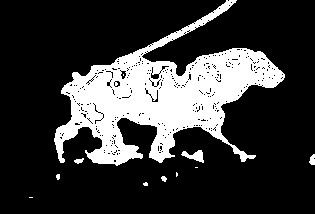
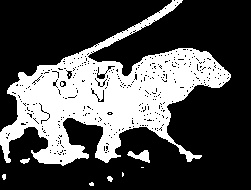
finish_blizko

diff --git a/cur.py b/cur.py
@@ -4,162 +4,165 @@ import cv2
 import argparse
 import math
 
-bins=255
-
-#fuction for binatyzation img by hist
 def range_segmentator(frame, hist):
-    temp_frame=frame.copy()
-    for i in range(hist.shape[0]):
-        for j in range(hist.shape[1]):
-            if(hist[j,i]<0):
-                temp_frame[np.where(frame == i)]=255
-                frame=temp_frame    
-    frame[np.where(frame!=255)]=0        
-    return frame           
+        temp_frame=frame.copy()
+        for i in range(hist.shape[0]):
+            for j in range(hist.shape[1]):
+                if(hist[j,i]<0):
+                    temp_frame[np.where(frame == i)]=255
+                    frame=temp_frame    
+        frame[np.where(frame!=255)]=0        
+        return frame           
 
 def segmentator_one_hist(frame,hist):
-    temp_frame=frame.copy()
-    for i in range(len(hist)):
-        if(hist[i]<0):
-            temp_frame[np.where(frame==i)]=255
-            frame=temp_frame
-    frame[np.where(frame!=255)]=0
-    return frame
+        temp_frame=frame.copy()
+        for i in range(len(hist)):
+            if(hist[i]<0):
+                temp_frame[np.where(frame==i)]=255
+                frame=temp_frame
+        frame[np.where(frame!=255)]=0
+        return frame
 
 def findDiffHist(frame,frame_ROI):
-    numPixles_frame = np.prod(frame.shape[:2])
-    numPixles_ROI = np.prod(frame_ROI.shape[:2])
-    histogramObj = cv2.calcHist([frame], [0], None, [bins], [0, 255])/numPixles_frame 
-    histogramROI = cv2.calcHist([frame_ROI], [0], None, [bins], [0, 255])/numPixles_ROI
-    one_result_hist=histogramROI-histogramObj
-    return one_result_hist
+        numPixles_frame = np.prod(frame.shape[:2])
+        numPixles_ROI = np.prod(frame_ROI.shape[:2])
+        histogramObj = cv2.calcHist([frame], [0], None, [bins], [0, 255])/numPixles_frame 
+        histogramROI = cv2.calcHist([frame_ROI], [0], None, [bins], [0, 255])/numPixles_ROI
+        one_result_hist=histogramROI-histogramObj
+        return one_result_hist
 
 def findDiff2Hist(frame,frame_ROI):
-    im_frame=cv2.Sobel(frame,-1,1,0)
-    cv2.imshow('Sobel',im_frame)
-    scar_x=cv2.Scharr(frame,-1,1,0)
-    print(scar_x.dtype)
-    scar_y=cv2.Scharr(frame,-1,0,1)
-    scar=scar_x+scar_y
-    print(np.min(scar_x))
-    print(np.max(scar_x))
-    scar_x=cv2.Scharr(frame_ROI,-1,1,0)
-    scar_y=cv2.Scharr(frame_ROI,-1,0,1)
-    scar_ROI=scar_x+scar_y
+        scar_x=cv2.Scharr(frame,-1,1,0)
+        scar_y=cv2.Scharr(frame,-1,0,1)
+        scar=scar_x+scar_y
 
-    arr_scar=scar.flatten()
-    arr_gray=gray_init.flatten()
-    arr_ROI_scar=scar_ROI.flatten()
-    arr_ROI_frame=frame_ROI.flatten()
+        scar_x=cv2.Scharr(frame_ROI,-1,1,0)
+        scar_y=cv2.Scharr(frame_ROI,-1,0,1)
+        scar_ROI=scar_x+scar_y
 
-    my_hist , x_edges, y_edges = np.histogram2d(arr_gray,arr_scar,bins=(150,150),normed=True)
-    my_ROI_hist,_,_ = np.histogram2d(arr_ROI_frame,arr_ROI_scar,bins=(150,150),normed=True)
-    resultHist=my_ROI_hist-my_hist
-    return resultHist
+        arr_scar=scar.flatten()
+        arr_gray=frame.flatten()
+        arr_ROI_scar=scar_ROI.flatten()
+        arr_ROI_frame=frame_ROI.flatten()
+
+        my_hist , x_edges, y_edges = np.histogram2d(arr_gray,arr_scar,bins=(150,150),normed=True)
+        my_ROI_hist,_,_ = np.histogram2d(arr_ROI_frame,arr_ROI_scar,bins=(150,150),normed=True)
+        resultHist=my_ROI_hist-my_hist
+        return resultHist
+
+class Core(object):
+    
+    def __init__(self,diff,x,y,w,h):
+        self.x=x
+        self.y=y
+        self.w=w
+        self.h=h
+        self.diff=diff
+        self.bins=255
 
 
-i=0
-cap = cv2.VideoCapture('/home/pavel/cursovoy/cycle_img/video.mpg')#read video stream
+#fuction for binatyzation img by hist
+
 
 #init argument
-parser = argparse.ArgumentParser()
-parser.add_argument('-d',"--diff",type=bool, default=True)
-parser.add_argument('-x',"--coordX",type=int, default=0)
-parser.add_argument('-y','--coordY',type=int, default=430)
-parser.add_argument('-H','--height',type=int, default=100)
-parser.add_argument('-W','--width',type=str, default=230)
-args=vars(parser.parse_args())
+#parser = argparse.ArgumentParser()
+#parser.add_argument('-d',"--diff",type=bool, default=True)
+#parser.add_argument('-x',"--coordX",type=int, default=0)
+#parser.add_argument('-y','--coordY',type=int, default=430)
+#parser.add_argument('-H','--height',type=int, default=100)
+#parser.add_argument('-W','--width',type=str, default=230)
+#args=vars(parser.parse_args())
 
-x=args.get('coordX') #начало координат объекта х
-y=args.get('coordY') # y
-h=args.get('height') # высота облвсти объекта
-w=args.get('width')  # ширина объекта
-diff=args.get('diff') #выбор алгоритма
+#x=args.get('coordX') #начало координат объекта х
+#y=args.get('coordY') # y
+#h=args.get('height') # высота облвсти объекта
+#w=args.get('width')  # ширина объекта
+#diff=args.get('diff') #выбор алгоритма
+    def run(self):
+        i=0
+        cap = cv2.VideoCapture('/home/pavel/cursovoy/cycle_img/video.mpg')#read video stream
+        (ret, frame_init)=cap.read()
+        frame_init=frame_init[self.y:self.y+self.h, self.x:self.x+self.w] #first cadr
+        status=cv2.imwrite('/home/pavel/cursovoy/img_create/first_init.jpg',frame_init)
+        gray_init = cv2.cvtColor(frame_init,cv2.COLOR_BGR2GRAY) #frame gray
 
-(ret, frame_init)=cap.read()
-frame_init=frame_init[y:y+h, x:x+w] #first cadr
-status=cv2.imwrite('/home/pavel/cursovoy/img_create/first_init.jpg',frame_init)
-gray_init = cv2.cvtColor(frame_init,cv2.COLOR_BGR2GRAY) #frame gray
+        while True:
+            (grabbed, frame_сolor)  = cap.read()# create frame stream
 
-while True:
-    (grabbed, frame_сolor)  = cap.read(cv2.CV_32SC1)# create frame stream
-    print(type(cap))
-    print(frame_сolor.dtype)
     #cvtColor
-    frame = cv2.cvtColor(frame_сolor,cv2.COLOR_BGR2GRAY) #frame on video
-   # frame = frame.astype(cv2.)/255.
-    print(frame.dtype)
-    #create ROI
-    ROI_x = x-50# cоздать переменные x1,y1,w1,h1 через GUI задать размеры ROI
-    ROI_y = y-50
-    ROI_width = w+100
-    ROI_hieght = h+100
-    if ROI_x < 0:
-        ROI_x = 0
-    if ROI_y < 0:
-        ROI_y = 0
-    if ROI_hieght > frame.shape[1]:
-        ROI_hieght = frame.shape[1]
-    if ROI_width > frame.shape[0]:
-        ROI_width = frame.shape[0]
+            frame = cv2.cvtColor(frame_сolor,cv2.COLOR_BGR2GRAY) #frame on video
 
-    frame=cv2.GaussianBlur(frame,(5,5),sigmaX=0.9,sigmaY=0.5) # размытие по Гауссу начального изображения
+    #create ROI
+            ROI_x = self.x-50# cоздать переменные x1,y1,w1,h1 через GUI задать размеры ROI
+            ROI_y = self.y-50
+            ROI_width = self.w+100
+            ROI_hieght = self.h+100
+            if ROI_x < 0:
+                ROI_x = 0
+            if ROI_y < 0:
+                ROI_y = 0
+            if ROI_hieght > frame.shape[1]:
+                ROI_hieght = frame.shape[1]
+            if ROI_width > frame.shape[0]:
+                ROI_width = frame.shape[0]
+
+            frame=cv2.GaussianBlur(frame,(5,5),sigmaX=0.9,sigmaY=0.5) # размытие по Гауссу начального изображения
     
     #cut ROI in gray frame                
-    frame_ROI = frame[ROI_y:ROI_y+ROI_hieght ,ROI_x:ROI_x+ROI_width]
-    status=cv2.imwrite('/home/pavel/cursovoy/img_create/ROI'+str(i)+'.jpg',frame_ROI)
-    gray_init=cv2.blur(gray_init,(5,5))# размытие матриц 
-    frame_ROI=cv2.blur(frame_ROI,(5,5))#
+            frame_ROI = frame[ROI_y:ROI_y+ROI_hieght ,ROI_x:ROI_x+ROI_width]
+            status=cv2.imwrite('/home/pavel/cursovoy/img_create/ROI'+str(i)+'.jpg',frame_ROI)
+            gray_init=cv2.blur(gray_init,(5,5))# размытие матриц 
+            frame_ROI=cv2.blur(frame_ROI,(5,5))#
 
     #cv2.imshow('Image',gray_init)
 
-    if(diff==True):#выбор алгоритма
-        hist=findDiff2Hist(frame=gray_init,frame_ROI=frame_ROI)
-        frame_ROI=range_segmentator(frame_ROI,hist)
-    else:
-        hist=findDiffHist(frame=gray_init,frame_ROI=frame_ROI)    
-        frame_ROI=segmentator_one_hist(frame_ROI,hist)
+            if(self.diff==True):#выбор алгоритма
+                hist=findDiff2Hist(frame=gray_init,frame_ROI=frame_ROI)
+                frame_ROI=range_segmentator(frame_ROI,hist)
+            else:
+                hist=findDiffHist(frame=gray_init,frame_ROI=frame_ROI)    
+                frame_ROI=segmentator_one_hist(frame_ROI,hist)
 
 
-    cv2.imshow('frame_ROI',frame_ROI)
-    status=cv2.imwrite('/home/pavel/cursovoy/img_create/ROI'+str(i)+'.jpg',frame_ROI)
+            cv2.imshow('frame_ROI',frame_ROI)
+            status=cv2.imwrite('/home/pavel/cursovoy/img_create/ROI'+str(i)+'.jpg',frame_ROI)
     #(hi,we)= frame_ROI[:2] 
     #frame_ROI=cv2.resize(frame_ROI,(50,50))#сжатие ROI
-    kernal=np.ones((5,5),np.uint8)
-    frame_ROI=cv2.dilate(frame_ROI,kernal)
-    cv2.imshow("1dil",frame_ROI)
-    kernal=np.ones((20,20),np.uint8)
-    frame_ROI=cv2.erode(frame_ROI,kernal)#эрозия
-    cv2.imshow('erode1',frame_ROI)
-    frame_ROI=cv2.dilate(frame_ROI,kernal)
-    cv2.imshow('dil2',frame_ROI)
+            kernal=np.ones((5,5),np.uint8)
+            frame_ROI=cv2.dilate(frame_ROI,kernal)
+            cv2.imshow("1dil",frame_ROI)
+            kernal=np.ones((20,20),np.uint8)
+            frame_ROI=cv2.erode(frame_ROI,kernal)#эрозия
+            cv2.imshow('erode1',frame_ROI)
+            frame_ROI=cv2.dilate(frame_ROI,kernal)
+            cv2.imshow('dil2',frame_ROI)
     #frame_ROI=cv2.blur(frame_ROI,(15,15))
     #frame_ROI=cv2.erode(frame_ROI,kernal)
     #frame_ROI=cv2.blur(frame_ROI,(9,9))#размытие 
-    ret,frame_ROI=cv2.threshold(frame_ROI,150,255,cv2.THRESH_BINARY)#порог бинаризации сжатого изображение
+            ret,frame_ROI=cv2.threshold(frame_ROI,150,255,cv2.THRESH_BINARY)#порог бинаризации сжатого изображение
     #frame_ROI=cv2.resize(frame_ROI,(ROI_width,ROI_hieght),interpolation=cv2.INTER_CUBIC)  
-    status=cv2.imwrite('/home/pavel/cursovoy/img_create/frame_ROII'+str(i)+'.jpg',frame_ROI)
-    _,conturus,hierarhi=cv2.findContours(frame_ROI,cv2.RETR_TREE,cv2.CHAIN_APPROX_SIMPLE)
+            status=cv2.imwrite('/home/pavel/cursovoy/img_create/frame_ROII'+str(i)+'.jpg',frame_ROI)
+            _,conturus,hierarhi=cv2.findContours(frame_ROI,cv2.RETR_TREE,cv2.CHAIN_APPROX_SIMPLE)
    
-    if(len(conturus)!=0):
-        cv2.drawContours(frame_ROI,conturus,-1,(150,0,150),1,cv2.LINE_AA,hierarhi,1)
-        c=max(conturus,key=cv2.contourArea)
-        x,y,w,h=cv2.boundingRect(c)
-        cv2.rectangle(frame_сolor,(ROI_x+x,ROI_y+y),(ROI_x+x+w,ROI_y+y+h),(150,255,100),2)
-        gray_init=frame[ROI_y+y:ROI_y+y+h, ROI_x+x:ROI_x+x+w]
-        status=cv2.imwrite('/home/pavel/cursovoy/img_create/gray_init_'+str(i)+'.jpg',gray_init)
-        y=ROI_y+y
-        x=ROI_x+x
-        h=h
-        w=w
+            if(len(conturus)!=0):
+                cv2.drawContours(frame_ROI,conturus,-1,(150,0,150),1,cv2.LINE_AA,hierarhi,1)
+                c=max(conturus,key=cv2.contourArea)
+                x,y,w,h=cv2.boundingRect(c)
+                cv2.rectangle(frame_сolor,(ROI_x+x,ROI_y+y),(ROI_x+x+w,ROI_y+y+h),(150,255,100),2)
+                gray_init=frame[ROI_y+y:ROI_y+y+h, ROI_x+x:ROI_x+x+w]
+                status=cv2.imwrite('/home/pavel/cursovoy/img_create/gray_init_'+str(i)+'.jpg',gray_init)
+                self.y=ROI_y+y
+                self.x=ROI_x+x
+                self.h=h
+                self.w=w
 
-    status=cv2.imwrite('/home/pavel/cursovoy/img_create/img_noseg_'+str(i)+'.jpg',frame_сolor)
-    #cv2.imshow('ROI',frame_сolor)
+            status=cv2.imwrite('/home/pavel/cursovoy/img_create/img_noseg_'+str(i)+'.jpg',frame_сolor)
+            cv2.imshow('ROI',frame_сolor)
     #cv2.imshow('VIDEO', frame)  
-    i=i+1
+            i=i+1
     
-    if cv2.waitKey(1) & 0xFF == ord('q'):
-        break
+            if cv2.waitKey(1) & 0xFF == ord('q'):
+                break
 
-cap.release()
-cv2.destroyAllWindows()
+        cap.release()
+        cv2.destroyAllWindows()

diff --git a/hist_anim.py b/hist_anim.py
@@ -6,36 +6,73 @@ from matplotlib import animation
 from tkinter import *
 import time
 import PIL.Image, PIL.ImageTk
+import cur
+x=0
+x1=0
+x2=0
+y1=0
+y2=0
+h=0
+w=0
 
 def open():
-    cap=cv2.VideoCapture("/home/pavel/cursovoy/cycle_img/video200ebanbIxSobak.mpg")
-    while True:
-        (ret,frame)=cap.read()
-        cv2.imshow("video",frame)
-        if cv2.waitKey(1) & 0xFF == ord('q'):
-            break
-    cap.release()
-    cv2.destroyAllWindows()
+   prog=cur.Core(True,x1,y1,w,h) 
+   prog.run()
+  
 def get_image():
-    cap=cv2.VideoCapture("/home/pavel/cursovoy/cycle_img/video200ebanbIxSobak.mpg")
-    (ret,frame)=cap.read()
-    height, width, no_channels = frame.shape
-    canvas =Canvas(root,width=width,height=height)
-    canvas.pack()
-    photo = PIL.ImageTk.PhotoImage(image = PIL.Image.fromarray(frame))
-    canvas.create_image(0,0,image=photo,anchor=NW)
+    
     root.mainloop()
 def get_scale():
     x=scale1.get()
-    
-x=0
+def move(event):
+    x = event.x
+    y = event.y
+    s = "Движение мышью {}x{}".format(x, y)
+    root.title(s)
+def press(event):
+    global x1
+    global y1
+    x1= event.x
+    y1= event.y
+    print('hi',h,'we',w)
+    canvas.delete('rect')
+
+def release(event):
+    x2= event.x
+    y2= event.y
+    global h
+    global w
+    h=abs(y2-y1)
+    w=abs(x2-x1)
+    #cv2.rectangle(frame,(x1,y1),(h,w),(255,0,0),3)
+    #height, width, no_channels = frame.shape
+    #print(frame.shape)
+    #photo = PIL.ImageTk.PhotoImage(image = PIL.Image.fromarray(frame))
+    #image_canvas=canvas.create_image(0,0,image=photo,anchor=NW) 
+    canvas.create_rectangle(x1, y1, x2, y2,outline="blue", tag='rect',width=3)
+   # print(x2,"*",y2)       
+   # print(x1,"*",y1)     
+
+def debug():
+    print(h, w)
 
 root=Tk()
 button1=Button(root,text='start',command=open)
-button2=Button(root,text='select Image',command=get_image)
+button2=Button(root,text='see',command=debug)
+#button2=Button(root,text='select Image',command=get_image)
 scale1 = Scale(root,orient=HORIZONTAL,length=300,from_=0,to=500,
                resolution=1)
-scale1.pack()               
+cap=cv2.VideoCapture("/home/pavel/cursovoy/cycle_img/video.mpg")
+(ret,frame)=cap.read()
+height, width, no_channels = frame.shape
+canvas =Canvas(root,width=width,height=height)
+canvas.bind('<Button-1>',press)
+canvas.bind('<ButtonRelease>',release)
+photo = PIL.ImageTk.PhotoImage(image = PIL.Image.fromarray(frame))
+image_canvas=canvas.create_image(0,0,image=photo,anchor=NW)               
+scale1.pack()
+button2.pack()               
 button1.pack()
-button2.pack()
+canvas.pack()
+#button2.pack()
 root.mainloop()
